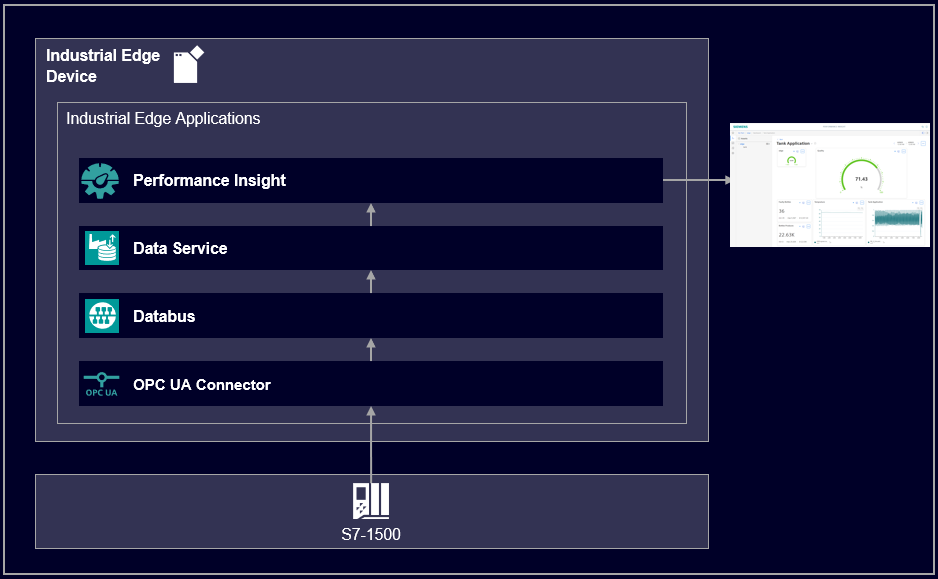
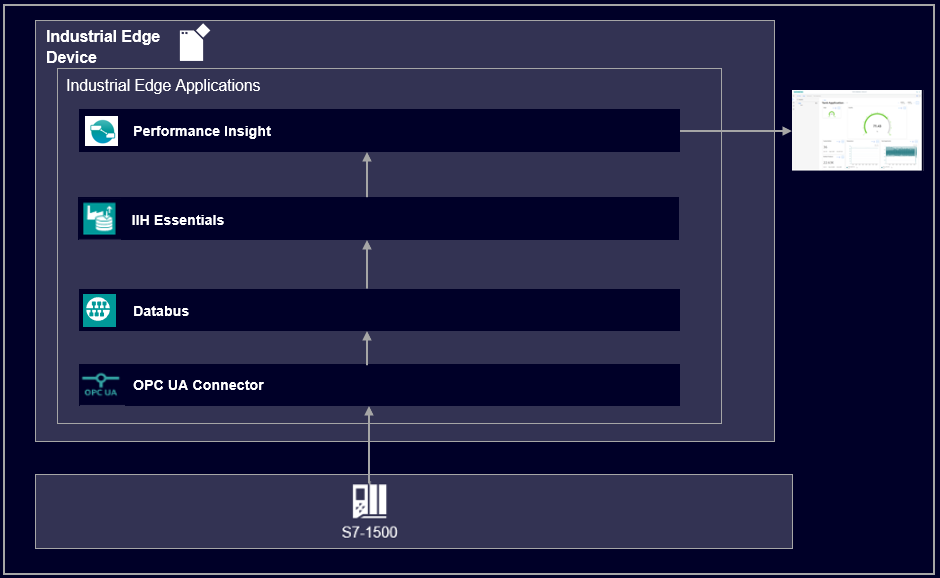
Draft (#13)
* Add files via upload

* Update README.md

* Update README.md

* Update README.md

* Update README.md

* Update Installation.md

* Update Installation.md

* Add files via upload

* Update Installation.md

* Update Installation.md

* Add files via upload

* Update Installation.md

* Update Installation.md

* Delete docs/Databus.PNG

* Delete docs/DatabusAdduser.PNG

* Update README.md

Registry service and Common Import converter has been added

* Add files via upload

* Add files via upload

* Add files via upload

* Update Installation.md

I updated the add tag picture

* Delete Siemens_CLA_1.1.pdf

Deleted the legacy contribution pdf

* Update README.md

contribution license agreement has been updated

diff --git a/README.md b/README.md
@@ -20,8 +20,8 @@ This example shows how to use the Industrial Edge App "Performance Insight" to v
 
 ### Overview
 
-This document describes how to get the data from a PLC into the Performance Insight app. The data flow goes from the S7 connector app, going through the databus app and 
-being stored as time-series with the data service app. The Performance Insight app is extremely dependent on a properly configured data service app.
+This document describes how to get the data from a PLC into the Performance Insight app. The data flow goes from the OPC UA Connector app, going through the databus app and 
+being stored as time-series with the IIH Essentials app. The Performance Insight app is extremely dependent on a properly configured IIH Essentials app.
 
 
 <p align="center"><kbd><img src="docs/graphics/performanceinsight.PNG" /></kbd></p>
@@ -29,8 +29,8 @@ being stored as time-series with the data service app. The Performance Insight a
 
 ### General task
 
-The example reads data from a PLC via the S7 Connector (OPC UA).
-The data is published on the IE Databus. The Data Service monitors the bus and collect the shopfloor data.
+The example reads data from a PLC via the OPC UA connector.
+The data is published on the Databus. The IIH Essentials monitors the bus and collect the shopfloor data.
 First an adapter, providing datapoints must be assigned and configured.
 Afterwards the data structure can be modeled using assets and aspects. See [data-service-how-to](https://github.com/industrial-edge/data-service-configure-s7-adapter-to-collect-data) for further explanation.
 This data is collected, saved for individual time periods and transfered for further processing (using Performance Insight).
@@ -41,9 +41,9 @@ This data is collected, saved for individual time periods and transfered for fur
 
 - Access to an Industrial Edge Management System (IEM)
 - Onboarded Industial Edge Device on IEM
-- Installed System Configurators for Databus and S7 Connector
-- Installed System Apps Databus and S7 Connector
-- Installed Data Service
+- Installed System Configurators for Databus and OPC UA Connector
+- Installed System Apps Databus OPC UA Connector
+- Installed IIH Essentials
 - Installed Performance Insight
 - Edge device is connected to PLC
 - TIA portal project loaded on PLC (e.g. for filling application)
@@ -51,16 +51,17 @@ This data is collected, saved for individual time periods and transfered for fur
 
 ### Used components
 
-- Industrial Edge Management (IEM) V1.1.16 (OS) V1.1.0-39
-  - IE Databus V1.1.15
-  - IE Databus Configurator V1.1.24
-  - S7 Connector V1.1.23
-  - S7 Connector Configurator V1.1.24
-  - Data Service V1.1.3
-  - Performance Insight V1.1.0
-- Industrial Edge Device V 1.1.0-32
-- TIA Portal V16
-- S7-PLCSIM Advanced V3.0 Upd 2
+- Industrial Edge Management (IEM) V1.14.10 (OS) V1.5.2-4
+  - Databus V2.2.0-3
+  - Databus Configurator V2.3.1-4
+  - OPC UA Connector V2.0.1-0
+  - IIH Essentials V1.10
+  - Performance Insight V1.16.1
+  - Registry Service V1.9.0-0
+  - Common Import Converter V2.1.0-2
+- Industrial Edge Device V 1.16.1-1-a
+- TIA Portal V18
+- S7-PLCSIM Advanced V5.0
 
 ### TIA Project
 
@@ -69,13 +70,13 @@ The used TIA Portal project can be found in the [miscellenous repository](https:
 ## Configuration steps
 
 You can find the further information about the following steps in the [docs](docs/Installation.md)
-- Configure PLC Connection (Databus, S7 Connector)
-- Configure Data Service
+- Configure PLC Connection (Databus, OPC UA Connector)
+- Configure IIH Essentials
 - Configure Performance Insight
 
 ## Usage
 
-Once the Data Service app is configured and data is availalbe from a running PLC, process data can be collected.
+Once the IIH Essentials app is configured and data is availalbe from a running PLC, process data can be collected.
 Performance Insight visualizes this data and gives Iata insights (KPIs, metrics, etc.) 
 
 ## Documentation
@@ -87,11 +88,10 @@ You can find further documentation and help in the following links
   - [Industrial Edge GitHub page]( https://github.com/industrial-edge)
   - [Industrial Edge documentation page]( https://docs.eu1.edge.siemens.cloud/index.html)
 ## Contribution
-Thank you for your interest in contributing. Anybody is free to report bugs, unclear documentation, and other problems regarding this repository in the Issues section.
-Additionally everybody is free to propose any changes to this repository using Pull Requests.
+Thank you for your interest in contributing. Anybody is free to report bugs, unclear documentation, and other problems regarding this repository in the Issues section. Additionally everybody is free to propose any changes to this repository using Pull Requests.
 
 If you haven't previously signed the [Siemens Contributor License Agreement](https://cla-assistant.io/industrial-edge/) (CLA), the system will automatically prompt you to do so when you submit your Pull Request. This can be conveniently done through the CLA Assistant's online platform. Once the CLA is signed, your Pull Request will automatically be cleared and made ready for merging if all other test stages succeed.
 
 ## Licence and Legal Information
 
-Please read the [Legal information](LICENSE.md).
+Please read the [Legal information](LICENSE.txt).

diff --git a/docs/Installation.md b/docs/Installation.md
@@ -4,7 +4,7 @@
   - [Configure Databus](#configure-databus)
 - [Configure Performance Insight](#configure-performance-insight)
   - [Configure OPC UA Connector](#configure-OPC-UA-connector)
-- [Configure Data Service](#configure-data-service)
+- [Configure IIH Essentials](#configure-IIH-Essentials)
   - [Configure the connector](#configure-the-connector)
   - [Configure an asset with variables](#configure-an-asset-with-variables)
 - [Configure Performance Insight](#configure-performance-insight)
@@ -20,7 +20,7 @@ In order to build this infrastructure, these apps must be configured properly:
 
 - OPC UA Connector
 - Databus
-- Data Service
+- IIH Essentials
 - Performance Insight
 
  <p align="center"><kbd><img src="graphics/performanceinsight.PNG"/></kbd></p>
@@ -48,7 +48,9 @@ Add a data source:
 
 Add needed tags:
 
-<p align="center"><kbd><img src="graphics/OPCUA_ADDTAGS.PNG" /></kbd></p>
+GDB.process.numberproduced, GDB.numberFaulty, DB_3_Simulation.statTankLevel, GDB.signals.tankSignals.actTemperature.
+
+<p align="center"><kbd><img src="graphics/addopcuatagspi.PNG" /></kbd></p>
 
 Edit the settings:
 
@@ -58,11 +60,11 @@ Hint: Username and password should be the same for all system apps, e.g. "edge" 
 
 Deploy and start the project.
 
-# Configure Data Service
+# Configure IIH Essentials
 
-In your IED Web UI open the app Data Service.
+In your IED Web UI open the app IIH Essentials.
 
-Hint: If an error screen appears saying "...unauthorized...", please restart the Data Service app, wait a moment and try again to open it.
+Hint: If an error screen appears saying "...unauthorized...", please restart the IIH Essentials app, wait a moment and try again to open it.
 
 ## Configure the connector
 
@@ -70,11 +72,11 @@ On the left bar click the icon "Connectors" and choose the OPC UA Connector (MQT
 
 In the settings for the connector click the edit icon on the right to open the connector configuration.
 
-<p align="center"><kbd><img src="graphics/opcuaconnector.PNG" /></kbd></p>
+<p align="center"><kbd><img src="graphics/IIHessentialsPIOPCUA.PNG" /></kbd></p>
 
 Add the missing entries for name (OPC UA Connector) username and password (again "edge"/"edge") and use databus settings should be deactivated and save it.
 
-<p align="center"><kbd><img src="graphics/opcuaadapterdetails.PNG" /></kbd></p>
+<p align="center"><kbd><img src="graphics/IIHessentialsPI.PNG" /></kbd></p>
 
 Hint: Sometimes the Data Service app must be restarted, to take over the connector changes.
 
@@ -86,7 +88,7 @@ Choose "Add variable" or "Multiple variables" on the right side to add tags.
 
 The required tank application variables are: tank level, tank temperature, produced bottles and faulty bottles.
 
-<p align="center"><kbd><img src="graphics/assestsandconnect.png"/></kbd></p>
+<p align="center"><kbd><img src="graphics/iihessentialsPIvariables.PNG"/></kbd></p>
 
 <p align="center"><kbd><img src="graphics/Addvariables.PNG" /></kbd></p>
 
